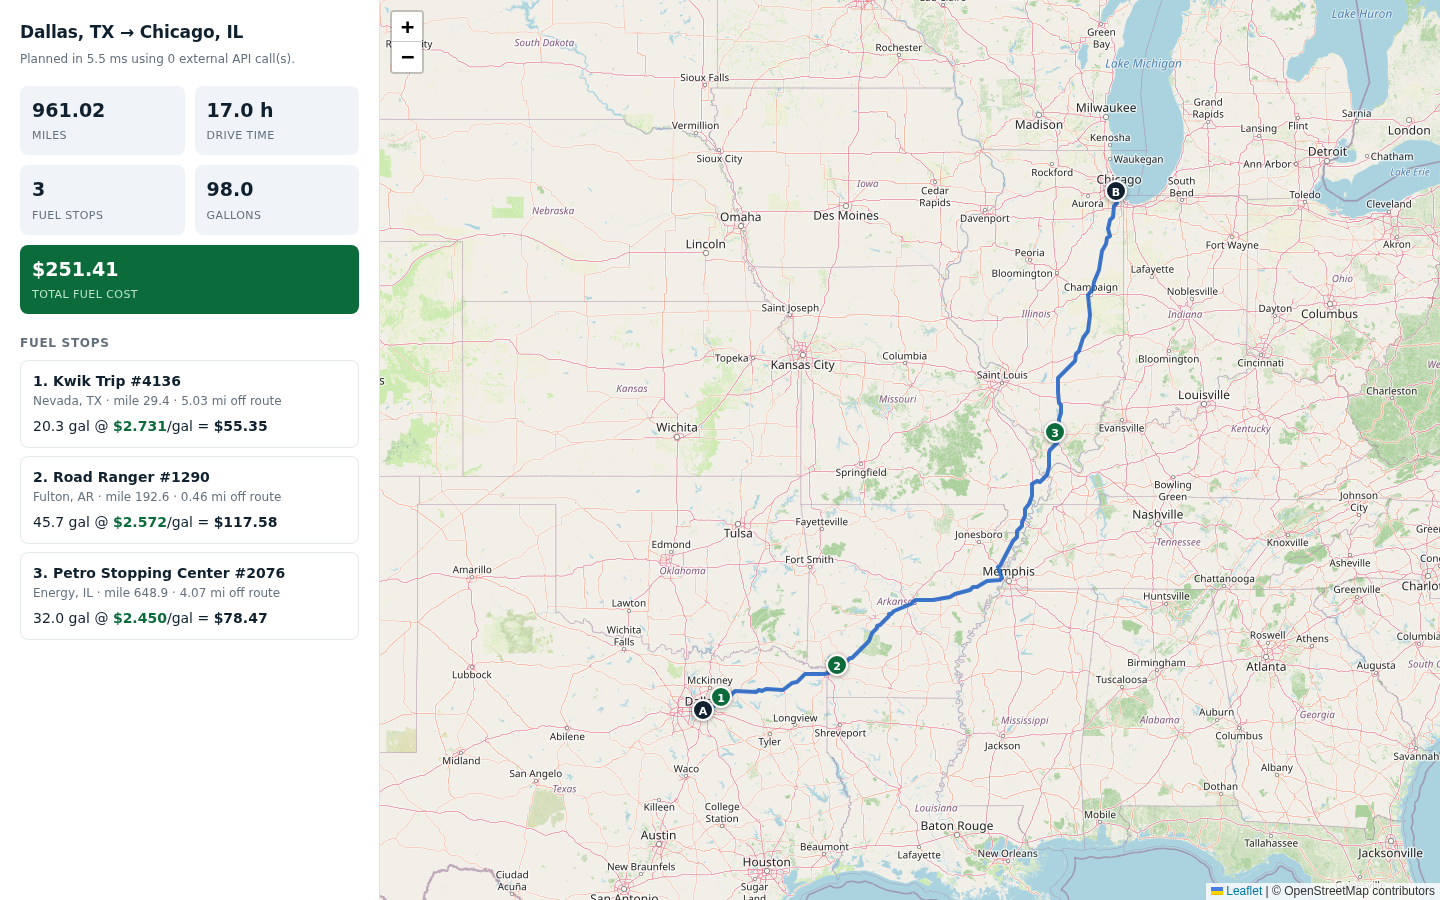
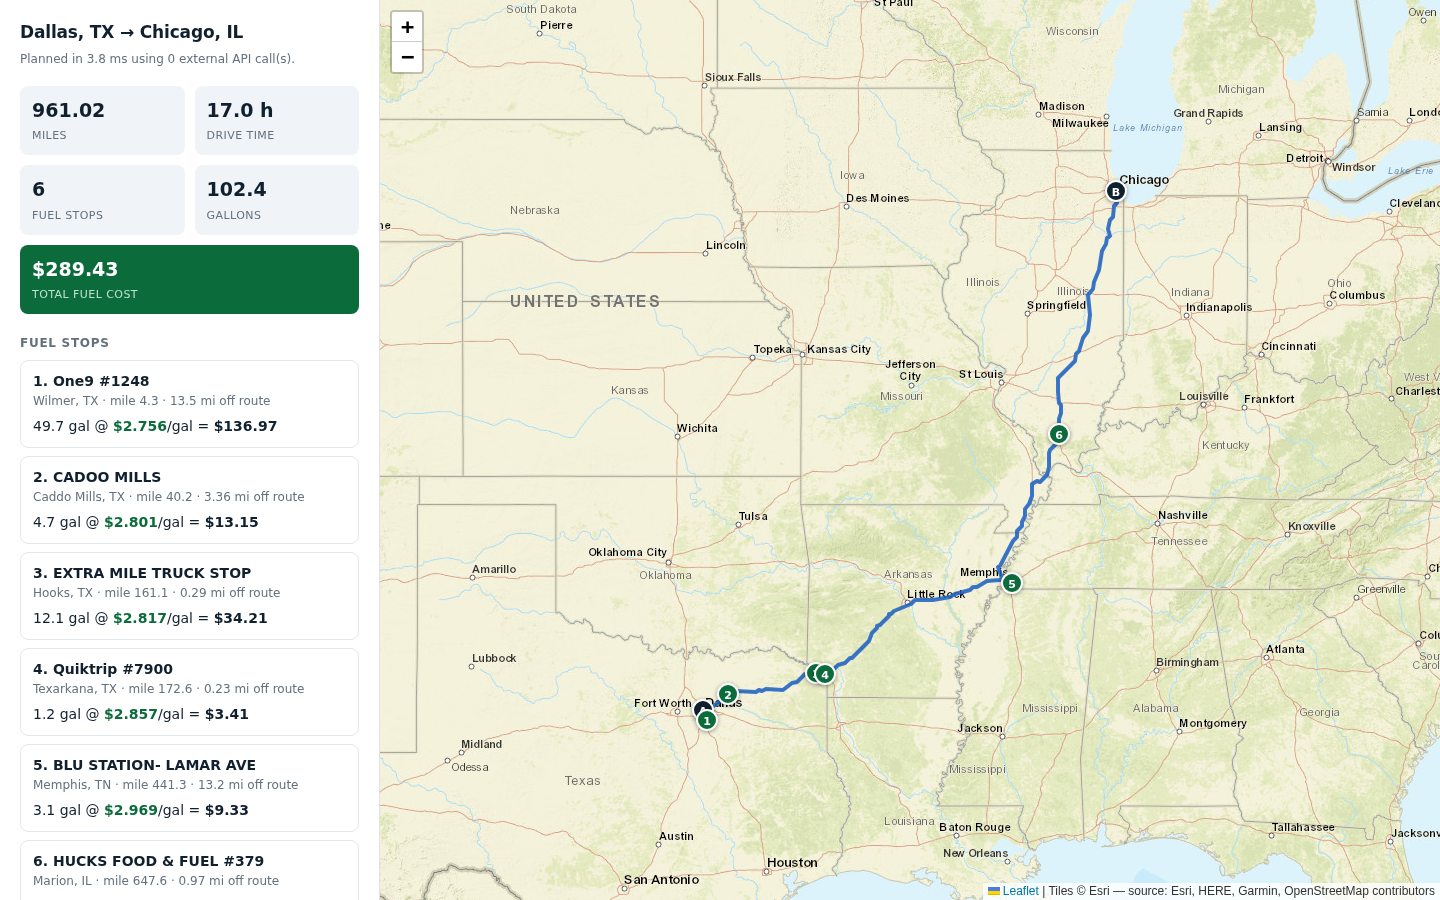
fix: the map used OpenStreetMap tiles, which answer 403 for this app
OSM's tile servers are volunteer run and their usage policy requires an app to
identify itself. A page served from localhost cannot, so every tile came back as
an "Access blocked" warning image and the map was unusable.

CARTO fails more quietly: it answers 200 with a real PNG and watermarks it
"API KEY REQUIRED", so a status-code check passes while the map is still
ruined. That is why this was caught by rendering the page, not by curl.

Switches to Esri's World Street Map, which serves clean tiles with no key, and
falls back through two more providers after repeated tile errors so a provider
that starts refusing mid-demo degrades instead of breaking.

diff --git a/fuelroute/templates/fuelroute/map.html b/fuelroute/templates/fuelroute/map.html
@@ -70,9 +70,47 @@ if (plan) {
     </ol>`;
 
   const map = L.map('map');
-  L.tileLayer('https://{s}.tile.openstreetmap.org/{z}/{x}/{y}.png', {
-    attribution: '&copy; OpenStreetMap contributors', maxZoom: 18
-  }).addTo(map);
+
+  // Tile providers, tried in order. OpenStreetMap's own servers are volunteer
+  // run and their usage policy requires an app to identify itself; a page on
+  // localhost cannot, so they answer 403 "Access blocked" and the map fills
+  // with warning tiles. CARTO and Esri are CDNs meant for this, need no API
+  // key, and keep the OpenStreetMap attribution their data requires.
+  // Tile providers, tried in order. Two traps here, both found by looking at
+  // the rendered map rather than at the HTTP status:
+  //   - OpenStreetMap's own servers are volunteer run and their usage policy
+  //     requires an app to identify itself. A page on localhost cannot, so they
+  //     answer 403 and the map fills with "Access blocked" tiles.
+  //   - CARTO answers 200 and then watermarks every tile "API KEY REQUIRED".
+  // Esri's basemap is open for this use and needs no key.
+  const PROVIDERS = [
+    { url: 'https://server.arcgisonline.com/ArcGIS/rest/services/World_Street_Map/MapServer/tile/{z}/{y}/{x}',
+      opts: { maxZoom: 19, attribution: 'Tiles &copy; Esri &mdash; source: Esri, HERE, Garmin, OpenStreetMap contributors' } },
+    { url: 'https://server.arcgisonline.com/ArcGIS/rest/services/World_Topo_Map/MapServer/tile/{z}/{y}/{x}',
+      opts: { maxZoom: 19, attribution: 'Tiles &copy; Esri' } },
+    { url: 'https://tile.openstreetmap.de/{z}/{x}/{y}.png',
+      opts: { maxZoom: 18, attribution: '&copy; OpenStreetMap contributors' } },
+  ];
+
+
+  let providerIndex = 0;
+  let tiles = null;
+
+  function useProvider(index) {
+    if (index >= PROVIDERS.length) return;   // out of options; keep the last
+    if (tiles) map.removeLayer(tiles);
+    providerIndex = index;
+    const p = PROVIDERS[index];
+    let failures = 0;
+    tiles = L.tileLayer(p.url, p.opts);
+    // A handful of failures means this provider is refusing us, not that one
+    // tile is missing. Move on rather than paint the map with error tiles.
+    tiles.on('tileerror', () => {
+      if (++failures === 4 && providerIndex === index) useProvider(index + 1);
+    });
+    tiles.addTo(map);
+  }
+  useProvider(0);
 
   const line = L.geoJSON(rt.geojson, { style: { color: '#1b62c4', weight: 4, opacity: .85 } }).addTo(map);
   map.fitBounds(line.getBounds(), { padding: [30, 30] });

diff --git a/docs/architecture.md b/docs/architecture.md
@@ -128,6 +128,25 @@ docker run -p 5000:5000 osrm/osrm-backend osrm-routed /data/us-latest.osrm
 
 Nothing else changes.
 
+### Basemap tiles
+
+The map page went through three providers before one worked, and the reason is
+worth recording because the failure was invisible to a status check.
+
+* **OpenStreetMap's own tile servers** answer **403**. They are volunteer run and
+  their usage policy requires an app to identify itself; a page served from
+  localhost cannot, so every tile comes back as an "Access blocked" warning
+  image and the map is unusable.
+* **CARTO** answers **200** and serves a real PNG -- and watermarks it
+  "API KEY REQUIRED" across the whole tile. A `curl -w %{http_code}` check
+  passes cleanly and the map is still ruined.
+* **Esri's World Street Map** serves clean tiles with no key.
+
+The lesson is that testing a tile provider by its HTTP status is not a test. The
+only check that works is rendering the page and looking at it. The page now
+tries the providers in order and moves to the next after a few tile errors, so a
+provider that starts refusing mid-demo degrades instead of breaking.
+
 ### Error handling
 
 Every failure the planner understands is a subclass of `PlannerError` carrying

diff --git a/README.md b/README.md
@@ -309,6 +309,12 @@ These are choices the brief left open. Each one is visible in the response.
   imported but never matched to a route.
 * **Prices have no date.** The file carries none, so every price is treated as
   current.
+* **The map uses Esri's basemap, not OpenStreetMap's own tile servers.** Those
+  are volunteer run, and their usage policy requires an app to identify itself.
+  A page served from localhost cannot, so they answer 403 and the map fills with
+  "Access blocked" tiles. CARTO is worse in a quieter way: it answers 200 and
+  then watermarks every tile "API KEY REQUIRED". The page falls back through
+  three providers if one starts refusing.
 
 ---
 
